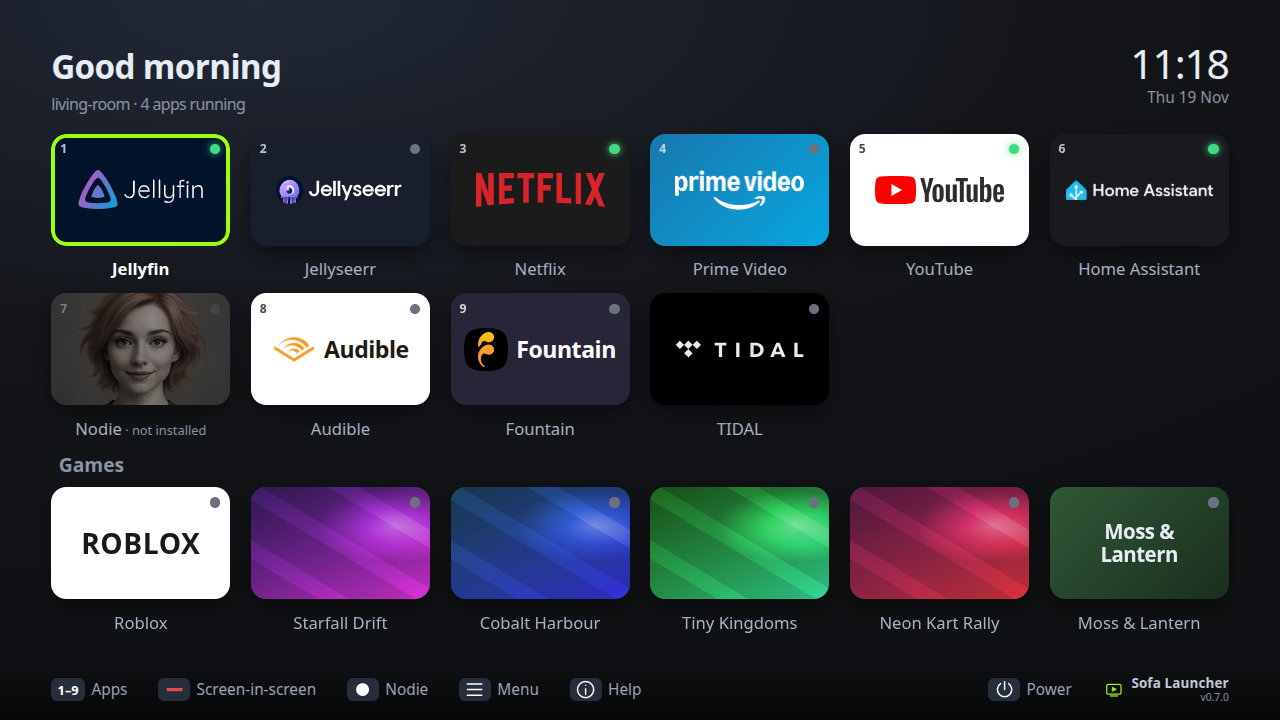
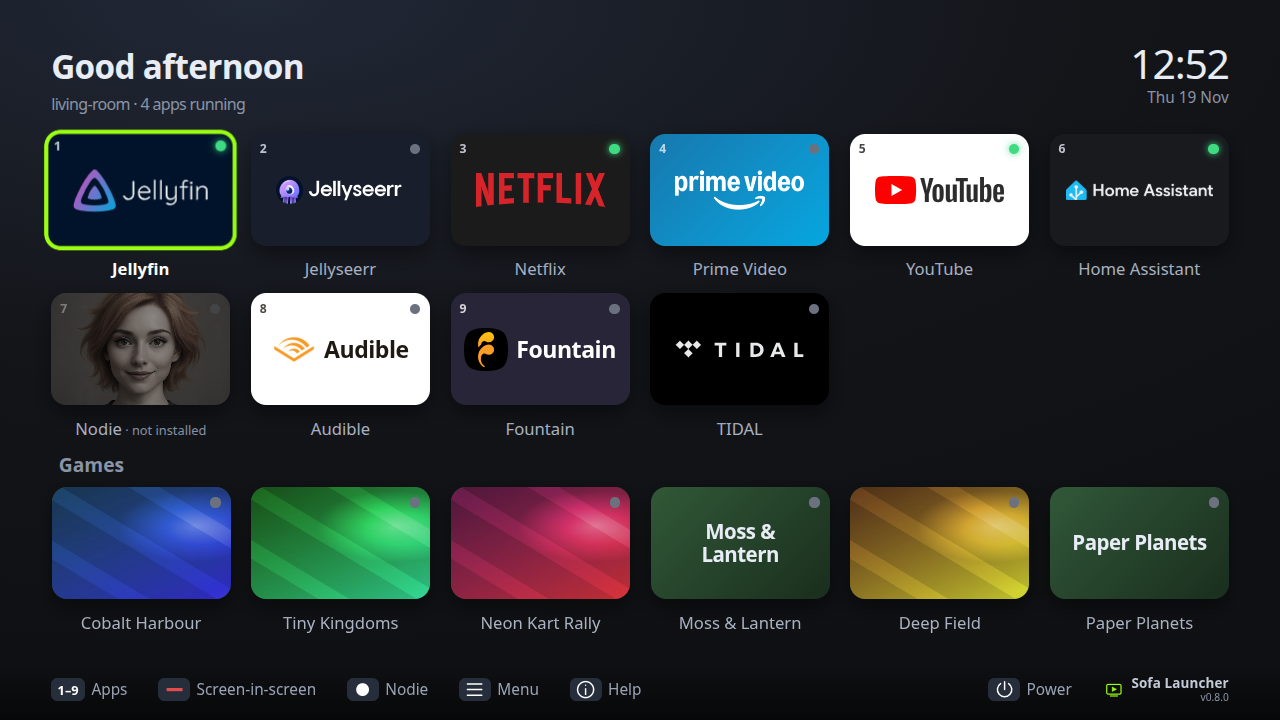
About: GitHub link and a Lightning thank-you; highlighted tile grows in rows
About shows the GitHub mark with the repository address (Down then OK, or a
click, opens it in the desktop's browser) and a QR code for a Lightning
address. In demo mode the settings path is a placeholder so screenshots do not
show who took them.

The highlighted tile grows by 8% on a Home with Games or Cameras rows too.

Claude-Session: https://claude.ai/code/session_01FYobGTgadq6BHtfAUaqb4P

diff --git a/src/renderer/src/lib/About.svelte b/src/renderer/src/lib/About.svelte
@@ -3,14 +3,23 @@
   import type { AboutInfo } from '@shared/types';
   import { BACK_KEYS } from './nav';
   import RemoteIcon from './RemoteIcon.svelte';
+  import { DONATE_ADDRESS, PROJECT_URL, PROJECT_URL_LABEL } from '@shared/project';
+  import donateQr from '../assets/donate-lightning.svg';
 
   let { onclose }: { onclose: () => void } = $props();
   let info = $state<AboutInfo | null>(null);
 
+  /** The remote's highlight is on the GitHub link (Down moves it there; OK then opens it). */
+  let onLink = $state(false);
+
   function onkeydown(e: KeyboardEvent) {
     e.stopPropagation();
     e.preventDefault();
-    if (!e.repeat && (BACK_KEYS.has(e.key) || e.key === 'Enter')) onclose();
+    if (e.repeat) return;
+    if (e.key === 'ArrowDown') onLink = true;
+    else if (e.key === 'ArrowUp') onLink = false;
+    else if (e.key === 'Enter' && onLink) void window.sofa.openProject();
+    else if (BACK_KEYS.has(e.key) || e.key === 'Enter') onclose();
   }
 
   onMount(() => void window.sofa.about().then((i) => (info = i)));
@@ -30,14 +39,34 @@
         <dt>OS sandbox</dt><dd class:ok={info.sandboxed} class:bad={!info.sandboxed}>{info.sandboxed ? '✓ on' : '✗ off (dev mode?)'}</dd>
       </dl>
     {/if}
-    <p><span class="k"><RemoteIcon name="back" /></span> Back</p>
+    <div class="more">
+      <section>
+        <h4>Source code</h4>
+        <!-- An address to read from the sofa, and a real link for a mouse or the remote's OK. -->
+        <a class="github" class:focused={onLink} href={PROJECT_URL} tabindex="-1"
+          onclick={(e) => { e.preventDefault(); void window.sofa.openProject(); }}>
+          <svg viewBox="0 0 16 16" aria-hidden="true"><path d="M8 0C3.58 0 0 3.58 0 8c0 3.54 2.29 6.53 5.47 7.59.4.07.55-.17.55-.38 0-.19-.01-.82-.01-1.49-2.01.37-2.53-.49-2.69-.94-.09-.23-.48-.94-.82-1.13-.28-.15-.68-.52-.01-.53.63-.01 1.08.58 1.23.82.72 1.21 1.87.87 2.33.66.07-.52.28-.87.51-1.07-1.78-.2-3.64-.89-3.64-3.95 0-.87.31-1.59.82-2.15-.08-.2-.36-1.02.08-2.12 0 0 .67-.21 2.2.82.64-.18 1.32-.27 2-.27s1.36.09 2 .27c1.53-1.04 2.2-.82 2.2-.82.44 1.1.16 1.92.08 2.12.51.56.82 1.27.82 2.15 0 3.07-1.87 3.75-3.65 3.95.29.25.54.73.54 1.48 0 1.07-.01 1.93-.01 2.2 0 .21.15.46.55.38A8.01 8.01 0 0 0 16 8c0-4.42-3.58-8-8-8z" /></svg>
+          <span>{PROJECT_URL_LABEL}</span>
+        </a>
+        <p class="small">Free and open source (MIT).</p>
+      </section>
+      <section class="donate">
+        <img src={donateQr} alt="QR code: pay {DONATE_ADDRESS} over Bitcoin Lightning" />
+        <div>
+          <h4>Say thanks with Bitcoin</h4>
+          <p class="small">Scan with a Lightning wallet, or send to</p>
+          <p class="address">{DONATE_ADDRESS}</p>
+        </div>
+      </section>
+    </div>
+    <p class="keys"><span class="k">↓</span>GitHub link<span class="k">OK</span>{onLink ? 'Open' : 'Close'}<span class="k"><RemoteIcon name="back" /></span>Back</p>
   </div>
 </div>
 
 <style>
   .dim { position: fixed; inset: 0; background: rgba(3, 4, 6, 0.72); backdrop-filter: blur(0.3rem);
          display: flex; align-items: center; justify-content: center; z-index: 10; }
-  .card { width: 44rem; border-radius: 1.6rem; padding: 2.4rem 2.8rem; background: #141922;
+  .card { width: 63rem; border-radius: 1.6rem; padding: 2.4rem 2.8rem; background: #141922;
           box-shadow: 0 0 0 1px #262e3c, 0 2rem 5rem rgba(0, 0, 0, 0.7); }
   h3 { margin: 0 0 1.4rem; font-size: 2rem; text-align: center; }
   dl { display: grid; grid-template-columns: auto 1fr; gap: 0.8rem 1.6rem; margin: 0; font-size: 1.35rem; }
@@ -45,7 +74,21 @@
   dd { margin: 0; }
   .path { font-family: 'JetBrains Mono', 'DejaVu Sans Mono', monospace; font-size: 1.1rem; word-break: break-all; }
   .ok { color: var(--ok); } .bad { color: #ff8b3e; }
-  p { margin: 1.8rem 0 0; text-align: center; color: var(--muted); font-size: 1.2rem; }
+  .more { display: grid; grid-template-columns: auto 1fr; gap: 3rem; margin-top: 1.8rem; padding-top: 1.6rem; border-top: 1px solid #262e3c; }
+  h4 { margin: 0 0 0.6rem; font-size: 1.25rem; font-weight: 700; }
+  .github { display: inline-flex; align-items: center; gap: 0.7rem; padding: 0.55rem 0.8rem; margin-left: -0.8rem; border-radius: 0.7rem;
+            color: #e6e9f0; text-decoration: none; font-size: 1.15rem; cursor: pointer; white-space: nowrap; }
+  .github svg { width: 2rem; height: 2rem; fill: currentColor; flex-shrink: 0; }
+  .github:hover, .github.focused { background: #222a38; color: #fff; }
+  .github.focused { box-shadow: 0 0 0 0.22rem var(--focus-ring), 0 0 1.2rem var(--accent-glow); }
+  .donate { display: flex; align-items: center; gap: 1.2rem; }
+  /* White with its own quiet zone: a QR code must stay dark-on-light to scan. */
+  .donate img { width: 9.5rem; height: 9.5rem; border-radius: 0.6rem; background: #fff; flex-shrink: 0; }
+  .small { margin: 0.35rem 0 0; font-size: 1.05rem; color: var(--muted); }
+  .address { margin: 0.3rem 0 0; font-family: 'JetBrains Mono', 'DejaVu Sans Mono', monospace; font-size: 1rem; color: #e6e9f0; white-space: nowrap; }
+  .keys { margin: 1.8rem 0 0; text-align: center; color: var(--muted); font-size: 1.2rem; }
+  .keys .k { margin-left: 1rem; }
+  .keys .k:first-child { margin-left: 0; }
   .k { display: inline-flex; align-items: center; justify-content: center; min-width: 1.8rem; height: 1.8rem; padding: 0 0.4rem; margin-right: 0.4rem;
        border-radius: 0.45rem; background: #222a38; color: #fff; font-weight: 700; font-size: 1rem; vertical-align: middle; }
 </style>

diff --git a/src/main/index.ts b/src/main/index.ts
@@ -1,4 +1,5 @@
-import { app, BrowserWindow, globalShortcut, ipcMain, nativeImage, screen, session, type IpcMainInvokeEvent } from 'electron';
+import { app, BrowserWindow, globalShortcut, ipcMain, nativeImage, screen, session, shell, type IpcMainInvokeEvent } from 'electron';
+import { PROJECT_URL } from '@shared/project';
 import { execFile } from 'node:child_process';
 import { existsSync, mkdirSync, readFileSync, statSync, watch, writeFileSync } from 'node:fs';
 import { homedir, hostname, userInfo } from 'node:os';
@@ -1235,6 +1236,12 @@ function registerIpc(): void {
     return (await openApp(apps.lastAppId)).ok;
   });
   handle('launcher:buttons', () => config.buttons);
+  // The About screen's link. The address is fixed here: the page cannot choose what opens.
+  handle('launcher:openProject', async () => {
+    if (DEMO) return;
+    try { await shell.openExternal(PROJECT_URL); }
+    catch { toast('Couldn’t open the browser'); }
+  });
   handle('launcher:about', (e): AboutInfo => {
     let sandboxed = false;
     try {
@@ -1242,7 +1249,9 @@ function registerIpc(): void {
     } catch {
       /* /proc unreadable */
     }
-    return { version: app.getVersion(), electron: process.versions.electron, chrome: process.versions.chrome, configPath, sandboxed };
+    return { version: app.getVersion(), electron: process.versions.electron, chrome: process.versions.chrome,
+      // Screenshots must not show whoever took them: demo mode names the usual place.
+      configPath: DEMO ? '~/.config/sofa-launcher/config.toml' : configPath, sandboxed };
   });
   handle('launcher:buttonTest', (_e, active) => setButtonTest(active === true));
   handle('launcher:guideClosed', () => {

diff --git a/src/renderer/src/App.svelte b/src/renderer/src/App.svelte
@@ -294,7 +294,8 @@
      and the focus ring sits inside the tile so the scrolling row can never clip it. */
   .rows .row { grid-template-columns:none; grid-auto-flow:column; grid-auto-columns:calc((100% - 7.6rem) / 5); gap:1.6rem; overflow-x:auto; scrollbar-width:none; padding:1rem .6rem; margin-top:2rem; }
   .rows h2 + .row { margin-top:0; }
-  .rows .row :global(.focused .tile) { transform:none; box-shadow:none; --inner-ring:block; }
+  /* The highlighted tile still grows a little: the row's padding has room for 8%, not the grid's 12%. */
+  .rows .row :global(.focused .tile) { transform:scale(1.08); box-shadow:none; --inner-ring:block; }
   /* With games, rows keep the focused tile clear of the edges (scroll-padding) and fade tiles
      that are only partly in view, like the slide-up panel; the negative margin keeps alignment. */
   .has-games .row { padding:1rem 1.6rem; margin-inline:-1rem; scroll-padding-inline:1.6rem;
@@ -312,7 +313,7 @@
                        overflow-x:auto; scrollbar-width:none; scroll-padding-inline:1rem; margin-top:.2rem;
                        mask-image:linear-gradient(90deg, transparent 0, #000 1rem, #000 calc(100% - 1rem), transparent 100%); }
   .wrapped h2 { margin-top:.4rem; }
-  .wrapped .row :global(.focused .tile) { transform:none; box-shadow:none; --inner-ring:block; }
+  .wrapped .row :global(.focused .tile) { transform:scale(1.08); box-shadow:none; --inner-ring:block; }
   .camera-row :global(.focused .tile) { background:var(--accent); color:var(--accent-contrast); }
   h2 { margin:1.2rem 0 0 .6rem; font-size:1.5rem; color:var(--muted); }
   .empty { grid-column: 1 / -1; font-size: 1.6rem; color: var(--muted); }

diff --git a/src/preload/index.ts b/src/preload/index.ts
@@ -27,6 +27,7 @@ const api: SofaApi = {
   returnToLastApp: () => ipcRenderer.invoke('launcher:lastApp'),
   buttons: () => ipcRenderer.invoke('launcher:buttons') as Promise<Record<GlobalAction, string>>,
   about: () => ipcRenderer.invoke('launcher:about') as Promise<AboutInfo>,
+  openProject: () => ipcRenderer.invoke('launcher:openProject'),
   buttonTest: (active) => ipcRenderer.invoke('launcher:buttonTest', active === true),
   overlayChanged: (open) => ipcRenderer.invoke('launcher:overlay', open),
   guideClosed: () => ipcRenderer.invoke('launcher:guideClosed'),

diff --git a/src/shared/types.ts b/src/shared/types.ts
@@ -125,6 +125,8 @@ export interface SofaApi {
   /** The configured accelerator per global action ([buttons] in config.toml). */
   buttons(): Promise<Record<GlobalAction, string>>;
   about(): Promise<AboutInfo>;
+  /** Open the project's page on GitHub in the desktop's browser. */
+  openProject(): Promise<void>;
   /** Button test: release / reclaim the global shortcuts so raw keys reach the window. */
   buttonTest(active: boolean): Promise<void>;
   /** Remote guide closed; main returns to the app it was opened over, if any. */

diff --git a/src/shared/project.ts b/src/shared/project.ts
@@ -1,0 +1,5 @@
+/** Where the project lives, and where a thank-you can be sent. Shown on the About screen. */
+export const PROJECT_URL = 'https://github.com/BenGWeeks/sofa-launcher';
+export const PROJECT_URL_LABEL = 'github.com/BenGWeeks/sofa-launcher';
+/** A Lightning address. assets/donate-lightning.svg is the QR code for it (see assets/ATTRIBUTION.md). */
+export const DONATE_ADDRESS = 'ben.weeks@bank.weeksfamily.me';

diff --git a/src/renderer/src/assets/ATTRIBUTION.md b/src/renderer/src/assets/ATTRIBUTION.md
@@ -15,3 +15,5 @@ Third-party service marks identify the services opened by Sofa Launcher. They re
 Retrieved 9 November 2026. Assets are bundled locally so drawing a tile does not contact these services.
 
 - `containers/*.svg`: icons for the Docker tile and the containers view, from [dashboard-icons](https://github.com/homarr-labs/dashboard-icons) (Apache License 2.0), downloaded from `https://cdn.jsdelivr.net/gh/homarr-labs/dashboard-icons/svg/<name>.svg` on 10 November 2026 and checked to contain no scripts or external references: bitcoin, crowdsec, docker, flaresolverr, frigate, gluetun, home-assistant, jellyfin, jellyseerr, lnbits, mariadb, mosquitto, neo4j, nextcloud, nginx, nginx-proxy-manager, ollama, open-webui, postgres, prowlarr, radarr, redis, sonarr, transmission, watchtower, wireguard, zigbee2mqtt. The logos they depict remain trademarks of their owners.
+
+- `donate-lightning.svg`: a QR code made for this project (no third-party artwork). It encodes `LIGHTNING:` followed by the LNURL-pay form of the Lightning address in `src/shared/project.ts`, that is the bech32 (`lnurl`) encoding of `https://<host>/.well-known/lnurlp/<name>`, in upper case, at error-correction level M. If the address changes, the picture must be made again.

diff --git a/README.md b/README.md
@@ -44,6 +44,10 @@ All taken from the real app in demo mode (`npm run screenshot`).
 |---|---|
 | ![Remote guide](docs/screenshots/remote-guide.png) | ![Power menu](docs/screenshots/power-menu.png) |
 
+Settings → **About** shows the version, a link to this repository (Down, then OK opens it in the desktop's browser) and a Lightning QR code for saying thanks:
+
+![About](docs/screenshots/about.png)
+
 | Games row | Apps, games and cameras | Slide-up menu while watching |
 |---|---|---|
 | ![Home screen with a Games row](docs/screenshots/home-games.png) | ![Home screen with apps, games and cameras](docs/screenshots/home-games-cameras.png) | ![Slide-up menu](docs/screenshots/panel.png) |
